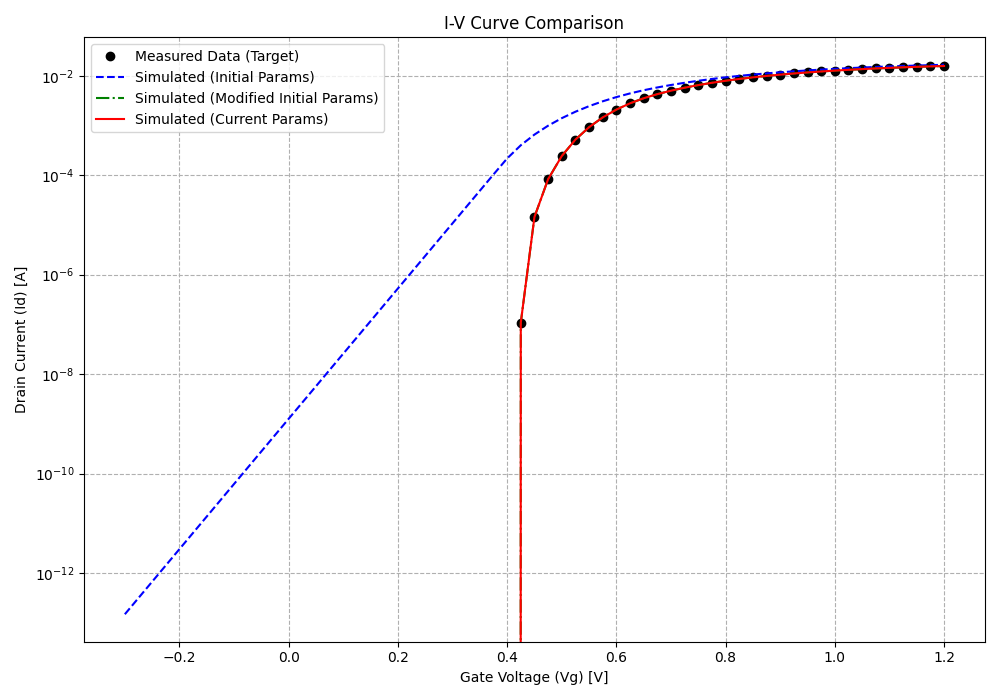
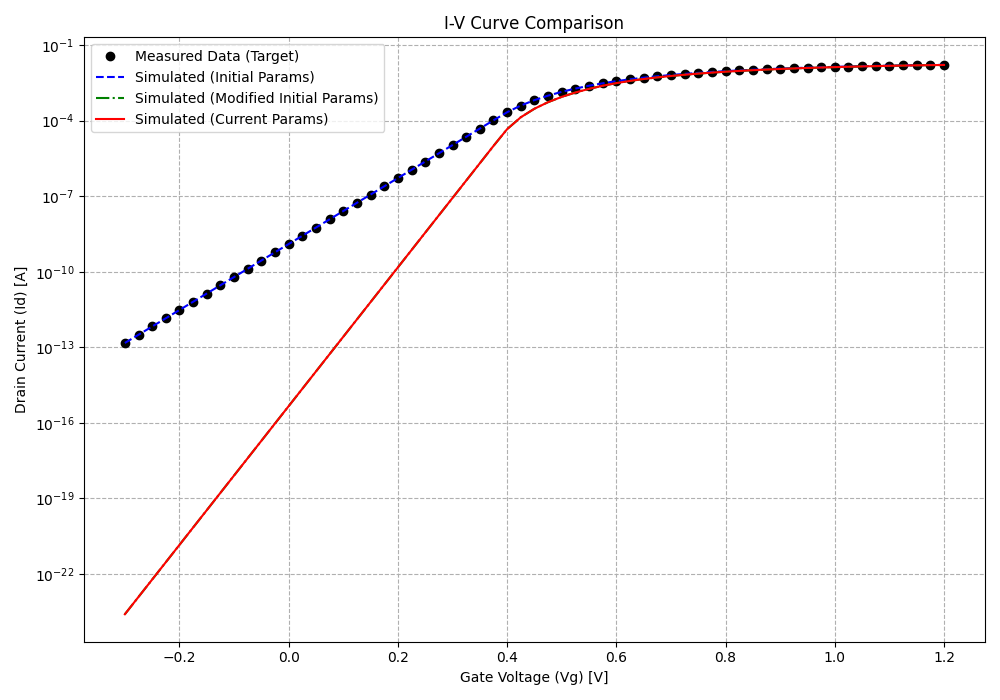
add: utils/restore_model.py

diff --git a/env/eehemt_env.py b/env/eehemt_env.py
@@ -93,7 +93,7 @@ class EEHEMTEnv(gym.Env):
         if test_modified:
             self.modified_initial_params = self.initial_params.copy()
             for name in self.tunable_param_names:
-                self.modified_initial_params[name] *= 1.5
+                self.modified_initial_params[name] *= 1.2
             self.current_params = self.modified_initial_params.copy()
         else:
             self.current_params = self.initial_params.copy()
@@ -117,7 +117,7 @@ class EEHEMTEnv(gym.Env):
             self.i_meas = self.eehemt_model.functions["Ids"].eval(
                 temperature=self.temperature,
                 voltages=self.sweep_bias,
-                **self.modified_initial_params,
+                **self.initial_params,
             )
         else:
             # $ 原本用真正的 csv file 的 id 做 i_meas
@@ -275,10 +275,11 @@ class EEHEMTEnv(gym.Env):
                 self.current_params[param_name], min_val, max_val
             )
 
+        params_for_eval = {k: float(v) for k, v in self.current_params.items()}
         i_sim = self.eehemt_model.functions["Ids"].eval(
             temperature=self.temperature,
             voltages=self.sweep_bias,
-            **self.current_params,
+            **params_for_eval,
         )
 
         current_rmspe = self._calculate_rmspe(i_sim)
@@ -344,10 +345,11 @@ class EEHEMTEnv(gym.Env):
             )
 
         if plot_current:
+            params_for_eval = {k: float(v) for k, v in self.current_params.items()}
             i_sim_current = self.eehemt_model.functions["Ids"].eval(
                 temperature=self.temperature,
                 voltages=self.sweep_bias,
-                **self.current_params,
+                **params_for_eval,
             )
             plt.plot(self.vgs, i_sim_current, "r-", label="Simulated (Current Params)")
 

diff --git a/utils/restore_model.py b/utils/restore_model.py
@@ -1,0 +1,44 @@
+import os
+
+import ray
+from ray.rllib.algorithms.algorithm import Algorithm
+from dotenv import load_dotenv
+
+load_dotenv()
+CHECKPOINT_PATH = os.getenv("CHECKPOINT_PATH", "")
+
+def restore_and_plot() -> None:
+    ray.init(ignore_reinit_error=True)
+
+    print(f"From checkpoint {CHECKPOINT_PATH}")
+
+    # 1. Restore the algorithm from the checkpoint
+    try:
+        algo = Algorithm.from_checkpoint(CHECKPOINT_PATH)
+        print("Algorithm restored.")
+    except Exception as e:
+        print(f"Restore failed. Please check the checkpoint path. Error: {e}")
+        ray.shutdown()
+        return
+
+    # 2. Get the environment from the algorithm
+    env = algo.workers.local_worker().env
+    print(f"Get env success: {type(env)}")
+
+    # 3. Plot the I-V curve
+    print("Plotting I-V curve...")
+    output_filename = "trained_iv_curve.png"
+    env.plot_iv_curve(
+        plot_initial=True,
+        plot_modified=False,
+        plot_current=True,
+        save_path=output_filename, 
+    )
+
+
+    ray.shutdown()
+    print(f"\nMission complete! Result saved to ./{output_filename}")
+
+
+if __name__ == "__main__":
+    restore_and_plot()

diff --git a/train.py b/train.py
@@ -1,4 +1,3 @@
-# from ray import tune
 import argparse
 
 from ray.rllib.algorithms.ppo import PPOConfig
@@ -49,11 +48,16 @@ if __name__ == "__main__":
         num_learners = 2
         num_gpus_per_learner = 1.0
 
-    parser.add_argument("--num-iterations", type=int, default=200)
+    parser.add_argument("--num-iterations", type=int, default=100)
 
     args = parser.parse_args()
 
     # Configure.
+    # ray.init(
+    #     runtime_env={
+    #         "working_dir": ".",
+    #     }
+    # )
     config = (
         PPOConfig()
         .environment(
